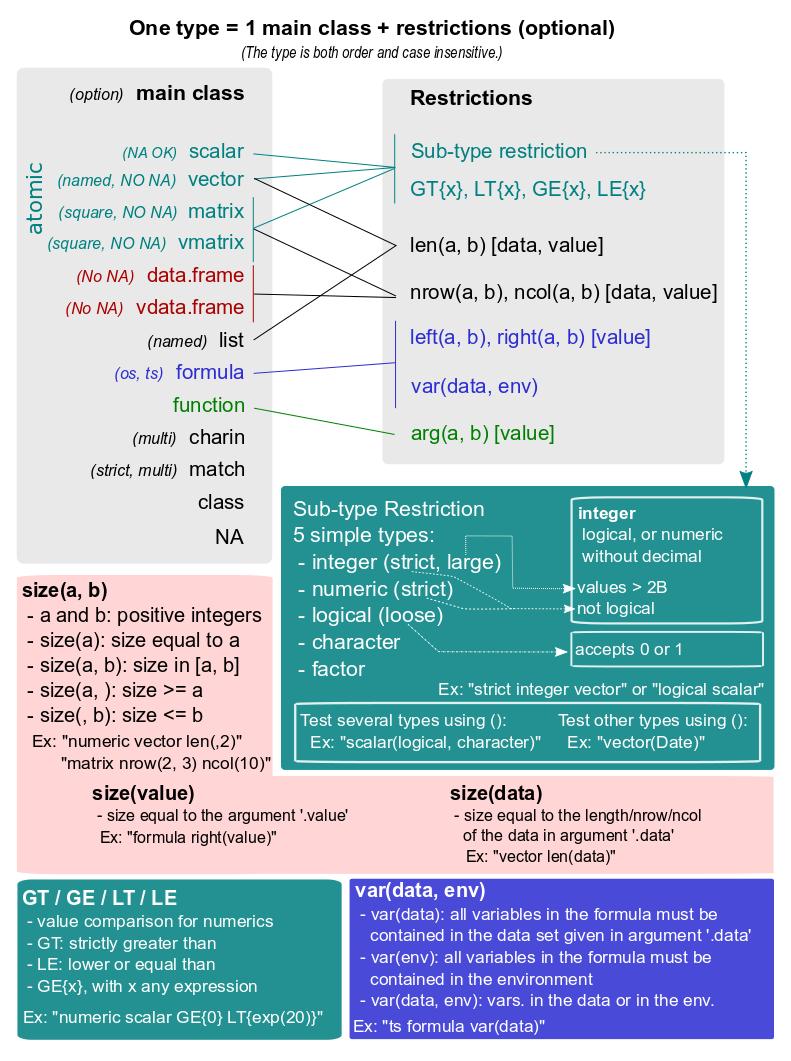
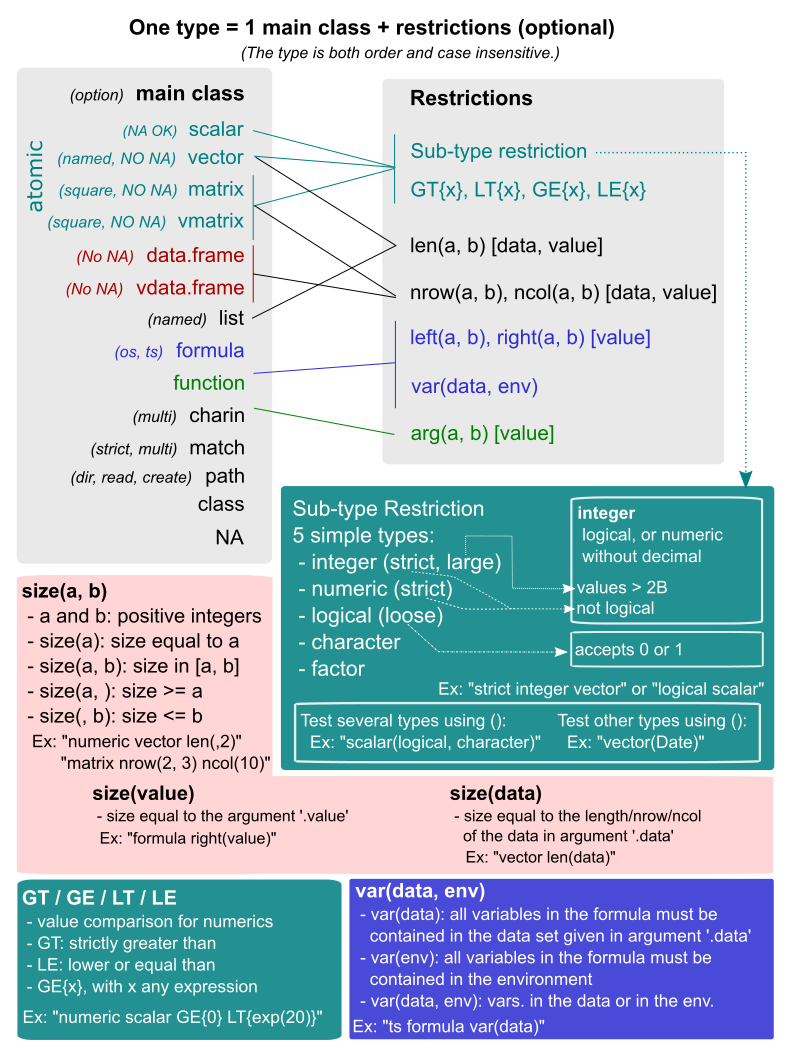
add new type path to doc and vignette

diff --git a/NEWS.md b/NEWS.md
@@ -2,19 +2,30 @@
 
 ## Version 1.3.0
 
-### Bug fixes
+### New functions
 
- - fixes `fit_screen` so that it does not mess with white spaces.
+- New set of `hook` error and warning functions for reporting in complex internal functions. These are `set_hook` to set a function as the hook and `stop_hook`/`warn_hook` error and warning functions used to report as if they were called from the hooked function.
+
+- `warni` and `stopi` for warning and stop functions with character interpolation using [stringmagic](https://github.com/lrberge/stringmagic)
+
+### New type
+
+- The type `path` has been added to `check_arg`. It is used to check paths.
 
 ### Name changes
 
-  - Functions `check_arg_plus` and `check_value_plus` become `check_set_arg` and `check_set_value` to improve clarity.
+- Functions `check_arg_plus` and `check_value_plus` become `check_set_arg` and `check_set_value` to improve clarity.
 
 ### Improvements
 
- - `fsignif` now displays trailing 0s appropriately and is neutral to character vectors (instead of throwing an error).
+- All warning and stop functions gain string interpolation with [stringmagic](https://github.com/lrberge/stringmagic).
+
+- `fit_screen`:
+  - fix prpblem with leading white spaces
+  - add the possibility to add a leader string
+  - improved algorithm
  
- - the comparison types now can evaluate values from the calling frame:
+- the comparison types now can evaluate values from the calling frame:
 ```r
 z = 32
 x = 77
